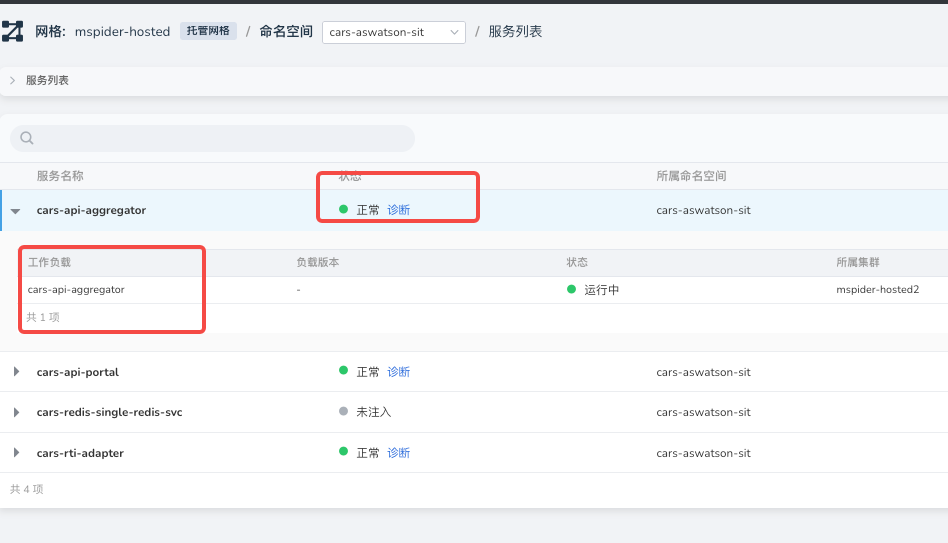
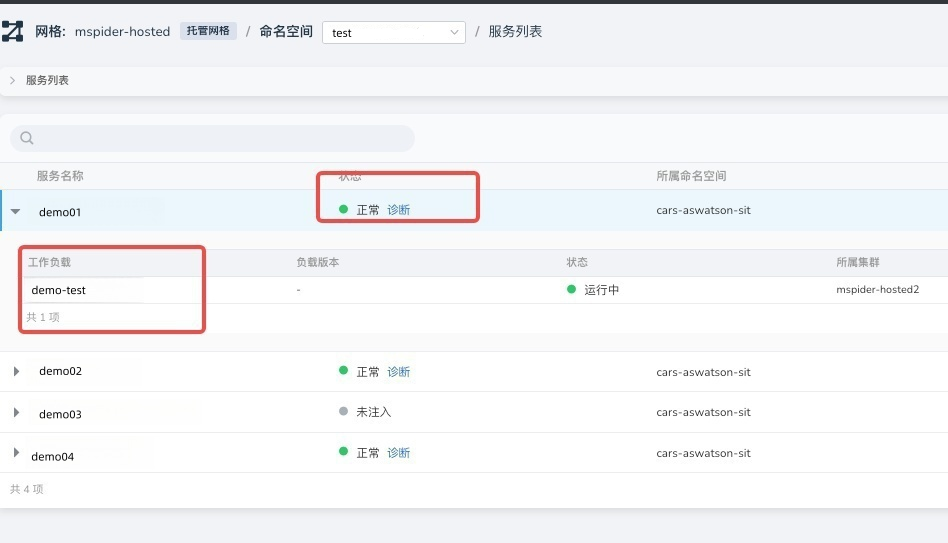
Desensitization of key information (#6536)

diff --git a/docs/zh/docs/mspider/user-guide/traffic-lane/index.md b/docs/zh/docs/mspider/user-guide/traffic-lane/index.md
@@ -3,7 +3,7 @@
 流量泳道（Traffic Lane）功能用于实现多版本、灰度发布等场景下的 **精细化流量路由控制** 。
 该机制的核心依赖以下三个关键要素：
 
-- **Wasm 扩展模块**：在服务间请求中注入自定义 Header（如 `bu`），用于标识请求所属的泳道。
+- **Wasm 扩展模块**：在服务间请求中注入自定义 Header（如 `x-mspider-lane`），用于标识请求所属的泳道。
 - **TraceID 链路追踪信息**：辅助识别请求来源，为泳道路由提供上下文支持。
 - **Istio 路由配置**：通过 VirtualService（VS）和 DestinationRule（DR）基于 Header 实现泳道级流量分发。
 
@@ -12,36 +12,34 @@
 ### 系统请求链路
 
 ```yaml
-istio-cars-ingress（Istio 网关）
+bookinfo-gw（Istio 网关）
     ↓
-portal-api-portal
+productpage
     ↓
-cars-rti-adapter
-    ↓
-cars-aggregator
+details & reviews...
 ```
 
 此链路中的每一跳服务均已接入 Istio Sidecar，并支持基于 Header 的子集路由。
 
 ### 泳道规划策略
 
-- 定义两个泳道：`wtchk` 和 `wicph`
-- 使用 Header Key：`bu`（泳道标识字段）
-- 默认泳道值：`wtchk`
+- 定义两个泳道：`green` 和 `yellow`
+- 使用 Header Key：`x-mspider-lane`（泳道标识字段）
+- 默认泳道值：`green`
 
 ### 路由行为预期
 
 | 请求 Header 示例 | 预期路由目标子集 |
 | --------------- | ------------- |
-| build: wtchk | wtchk |
-| build: wicph | wicph |
+| x-mspider-laneid: green | green |
+| x-mspider-laneid: yellow | yellow |
 
 - 请求到达时，Istio 会依据 Header 中的泳道标识将流量路由至对应的子集 Pod。
 - 若 Header 缺失，系统可配置默认值或返回错误，具体取决于 VS/DR 策略。
 
 ### Header 重写说明
 
-由于上游服务可能使用 `buid` 字段，而系统内部标准识别字段为 `bu`，
+由于上游服务可能使用 `x-mspider-laneid` 字段，而系统内部标准识别字段为 `x-mspider-lane`，
 建议在入口网关（如 `istio-cars-ingress`）的 VirtualService 中添加以下配置：
 
 ```yaml
@@ -51,12 +49,12 @@ http:
   headers:
     request:
       set:
-        bu: "{{ request.headers['buid'] }}"
+        x-mspider-lane: "{{ request.headers['x-mspider-laneid'] }}"
 ```
 
 !!! note
 
-    如上操作用于将 `buid` 统一映射为标准泳道标识 `bu`，仅当上游请求头不一致时才需配置；若已统一为 `bu`，可跳过这一步。
+    如上操作用于将 `x-mspider-laneid` 统一映射为标准泳道标识 `x-mspider-lane`，仅当上游请求头不一致时才需配置；若已统一为 `x-mspider-lane`，可跳过这一步。
 
 ## 示例操作步骤
 
@@ -70,20 +68,20 @@ http:
 apiVersion: extensions.istio.io/v1alpha1
 kind: WasmPlugin
 metadata:
-  name: cars-traffic-lane
-  namespace: cars-aswatson-dev
+  name: bookinfo
+  namespace: bookinfo
 spec:
   imagePullPolicy: Always
   phase: STATS
   pluginConfig:
     cache_size: 1024
-    lane_header: bu # 流量泳道识别的通用 header key
-    traffic_lane: wtchk # 泳道默认 header value
+    lane_header: x-mspider-lane # 流量泳道识别的通用 header key
+    traffic_lane: green # 泳道默认 header value
     type: W3C
   selector:
     matchLabels:
-      app.kubernetes.io/part-of: cars # 泳道作用的工作负载共同 label
-  url: oci://10.95.35.134/release.daocloud.io/mspider/mspider-traffic-lane:v0.30.4 # 泳道版本
+      app: bookinfo # 泳道作用的工作负载共同 label
+  url: oci://release.daocloud.io/mspider/mspider-traffic-lane:v0.30.4 # 泳道版本
 ```
 
 如果是私有环境，记得提前将泳道的 Wasm 推送到镜像仓库。
@@ -97,7 +95,7 @@ spec:
 
 ![img](./images/lane02.png)
 
-### 4. 定义服务的 dr, 给每个服务都配置 wtchk 和 wicph 两组 subset
+### 4. 定义服务的 dr, 给每个服务都配置 green 和 yellow 两组 subset
 
 要确认是否绑定了目标服务，可以通过服务网格界面辅助判断
 
@@ -111,44 +109,44 @@ spec:
 apiVersion: networking.istio.io/v1beta1
 kind: VirtualService
 metadata:
-  name: cars-api-portal
-  namespace: cars-aswatson-dev
+  name: bookinfo-gw
+  namespace: bookinfo
 spec:
   gateways:
-    - cars-aswatson-dev/cars # 网关入口服务
+    - bookinfo/bookinfo-gw # 网关入口服务
   hosts:
-    - "*"
+    - '*'
   http:
-    - headers: # 将请求 header 重置为流量泳道通用 header 规则 <bu：wtchk>
+    - headers: # 将请求 header 重置为流量泳道通用 header 规则 <x-mspider-lane：green>
         request:
           set: # 重写
-            bu: wtchk
-      match: # 访问服务，比如发起 http 的入口请求（postman），需要定义 header <wtchk>
+            x-mspider-lane: green
+      match: # 访问服务，比如发起 http 的入口请求（postman），需要定义 header <green>
         - headers:
-            buid:
-              exact: wtchk
-      name: hk
+            x-mspider-laneid:
+              exact: green
+      name: green-lane
       route:
         - destination:
-            host: cars-api-portal.cars-aswatson-dev.svc.cluster.local
+            host: productpage
             port:
-              number: 8181
-            subset: cars-api-portal-wtchk
+              number: 9080
+            subset: green
     - headers:
         request:
           set:
-            bu: wicph
+            x-mspider-lane: yellow
       match:
         - headers:
-            buid:
-              exact: wicph
-      name: ph
+            x-mspider-laneid:
+              exact: yellow
+      name: yellow-lane
       route:
         - destination:
-            host: cars-api-portal.cars-aswatson-dev.svc.cluster.local
+            host: productpage
             port:
-              number: 8181
-            subset: cars-api-portal-wtcph
+              number: 9080
+            subset: yellow
 ```
 
 如果不需要重写 header，示例如下：
@@ -157,36 +155,36 @@ spec:
 apiVersion: networking.istio.io/v1beta1
 kind: VirtualService
 metadata:
-  name: cars-api-portal
-  namespace: cars-aswatson-dev
+  name: bookinfo-gw
+  namespace: bookinfo
 spec:
   gateways:
-    - cars-aswatson-dev/cars # 网关入口服务
+    - bookinfo/bookinfo-gw # 网关入口服务
   hosts:
-    - "*"
+    - '*'
   http:
-    - match: # 访问服务，比如发起 http 的入口请求（postman），需要定义 header <wtchk>
+    - match: # 访问服务，比如发起 http 的入口请求（postman），需要定义 header <green>
         - headers:
-            bu:
-              exact: wtchk
-      name: hk
+            x-mspider-lane:
+              exact: green
+      name: green-lane
       route:
         - destination:
-            host: cars-api-portal.cars-aswatson-dev.svc.cluster.local
+            host: productpage
             port:
-              number: 8181
-            subset: cars-api-portal-wtchk
+              number: 9080
+            subset: green
     - match:
         - headers:
-            buid:
-              exact: wicph
-      name: ph
+            x-mspider-lane:
+              exact: yellow
+      name: yellow-lane
       route:
         - destination:
-            host: cars-api-portal.cars-aswatson-dev.svc.cluster.local
+            host: productpage
             port:
-              number: 8181
-            subset: cars-api-portal-wtcph
+              number: 9080
+            subset: yellow
 ```
 
 ### 6. 后续内部服务定义 VirtualService
@@ -195,36 +193,36 @@ spec:
 apiVersion: networking.istio.io/v1beta1
 kind: VirtualService
 metadata:
-  name: cars-rti-adapter
-  namespace: cars-aswatson-dev
+  name: details
+  namespace: bookinfo
 spec:
   gateways:
     - mesh # 全局服务
   hosts:
-    - cars-rti-adapter # 内部服务
+    - details # 内部服务
   http:
     - match: # 匹配泳道 通用 header 规则
         - headers:
-            bu:
-              exact: wtchk
-      name: cars-adapter
+            x-mspider-lane:
+              exact: green
+      name: green
       route:
         - destination:
-            host: cars-rti-adapter.cars-aswatson-dev.svc.cluster.local
+            host: details
             port:
-              number: 20885
-            subset: cars-rti-adapter-wtchk
+              number: 9080
+            subset: green
     - match:
         - headers:
-            bu:
-              exact: wtcph
-      name: cars-adapter-ph
+            x-mspider-lane:
+              exact: yellow
+      name: yellow
       route:
         - destination:
-            host: cars-rti-adapter.cars-aswatson-dev.svc.cluster.local
+            host: details
             port:
-              number: 20885
-            subset: cars-rti-adapter-wtcph
+              number: 9080
+            subset: yellow
 ```
 
 ## 常见问题记录
@@ -241,12 +239,8 @@ spec:
 
 ### 没有开启链路追踪，导致服务访问错误
 
-现象是 istio-proxy 有传入 header，但是没有 traceid：
-
-![img](./images/lane04.png)
-
-业务日志看到的请求 header bu 正常应该是：
+现象是 istio-proxy 有传入 header，但是没有 traceid
+业务日志看到的请求 header x-mspider-lane 正常应该是：
 
 ![img](./images/lane05.png)
 
-![img](./images/lane06.png)
